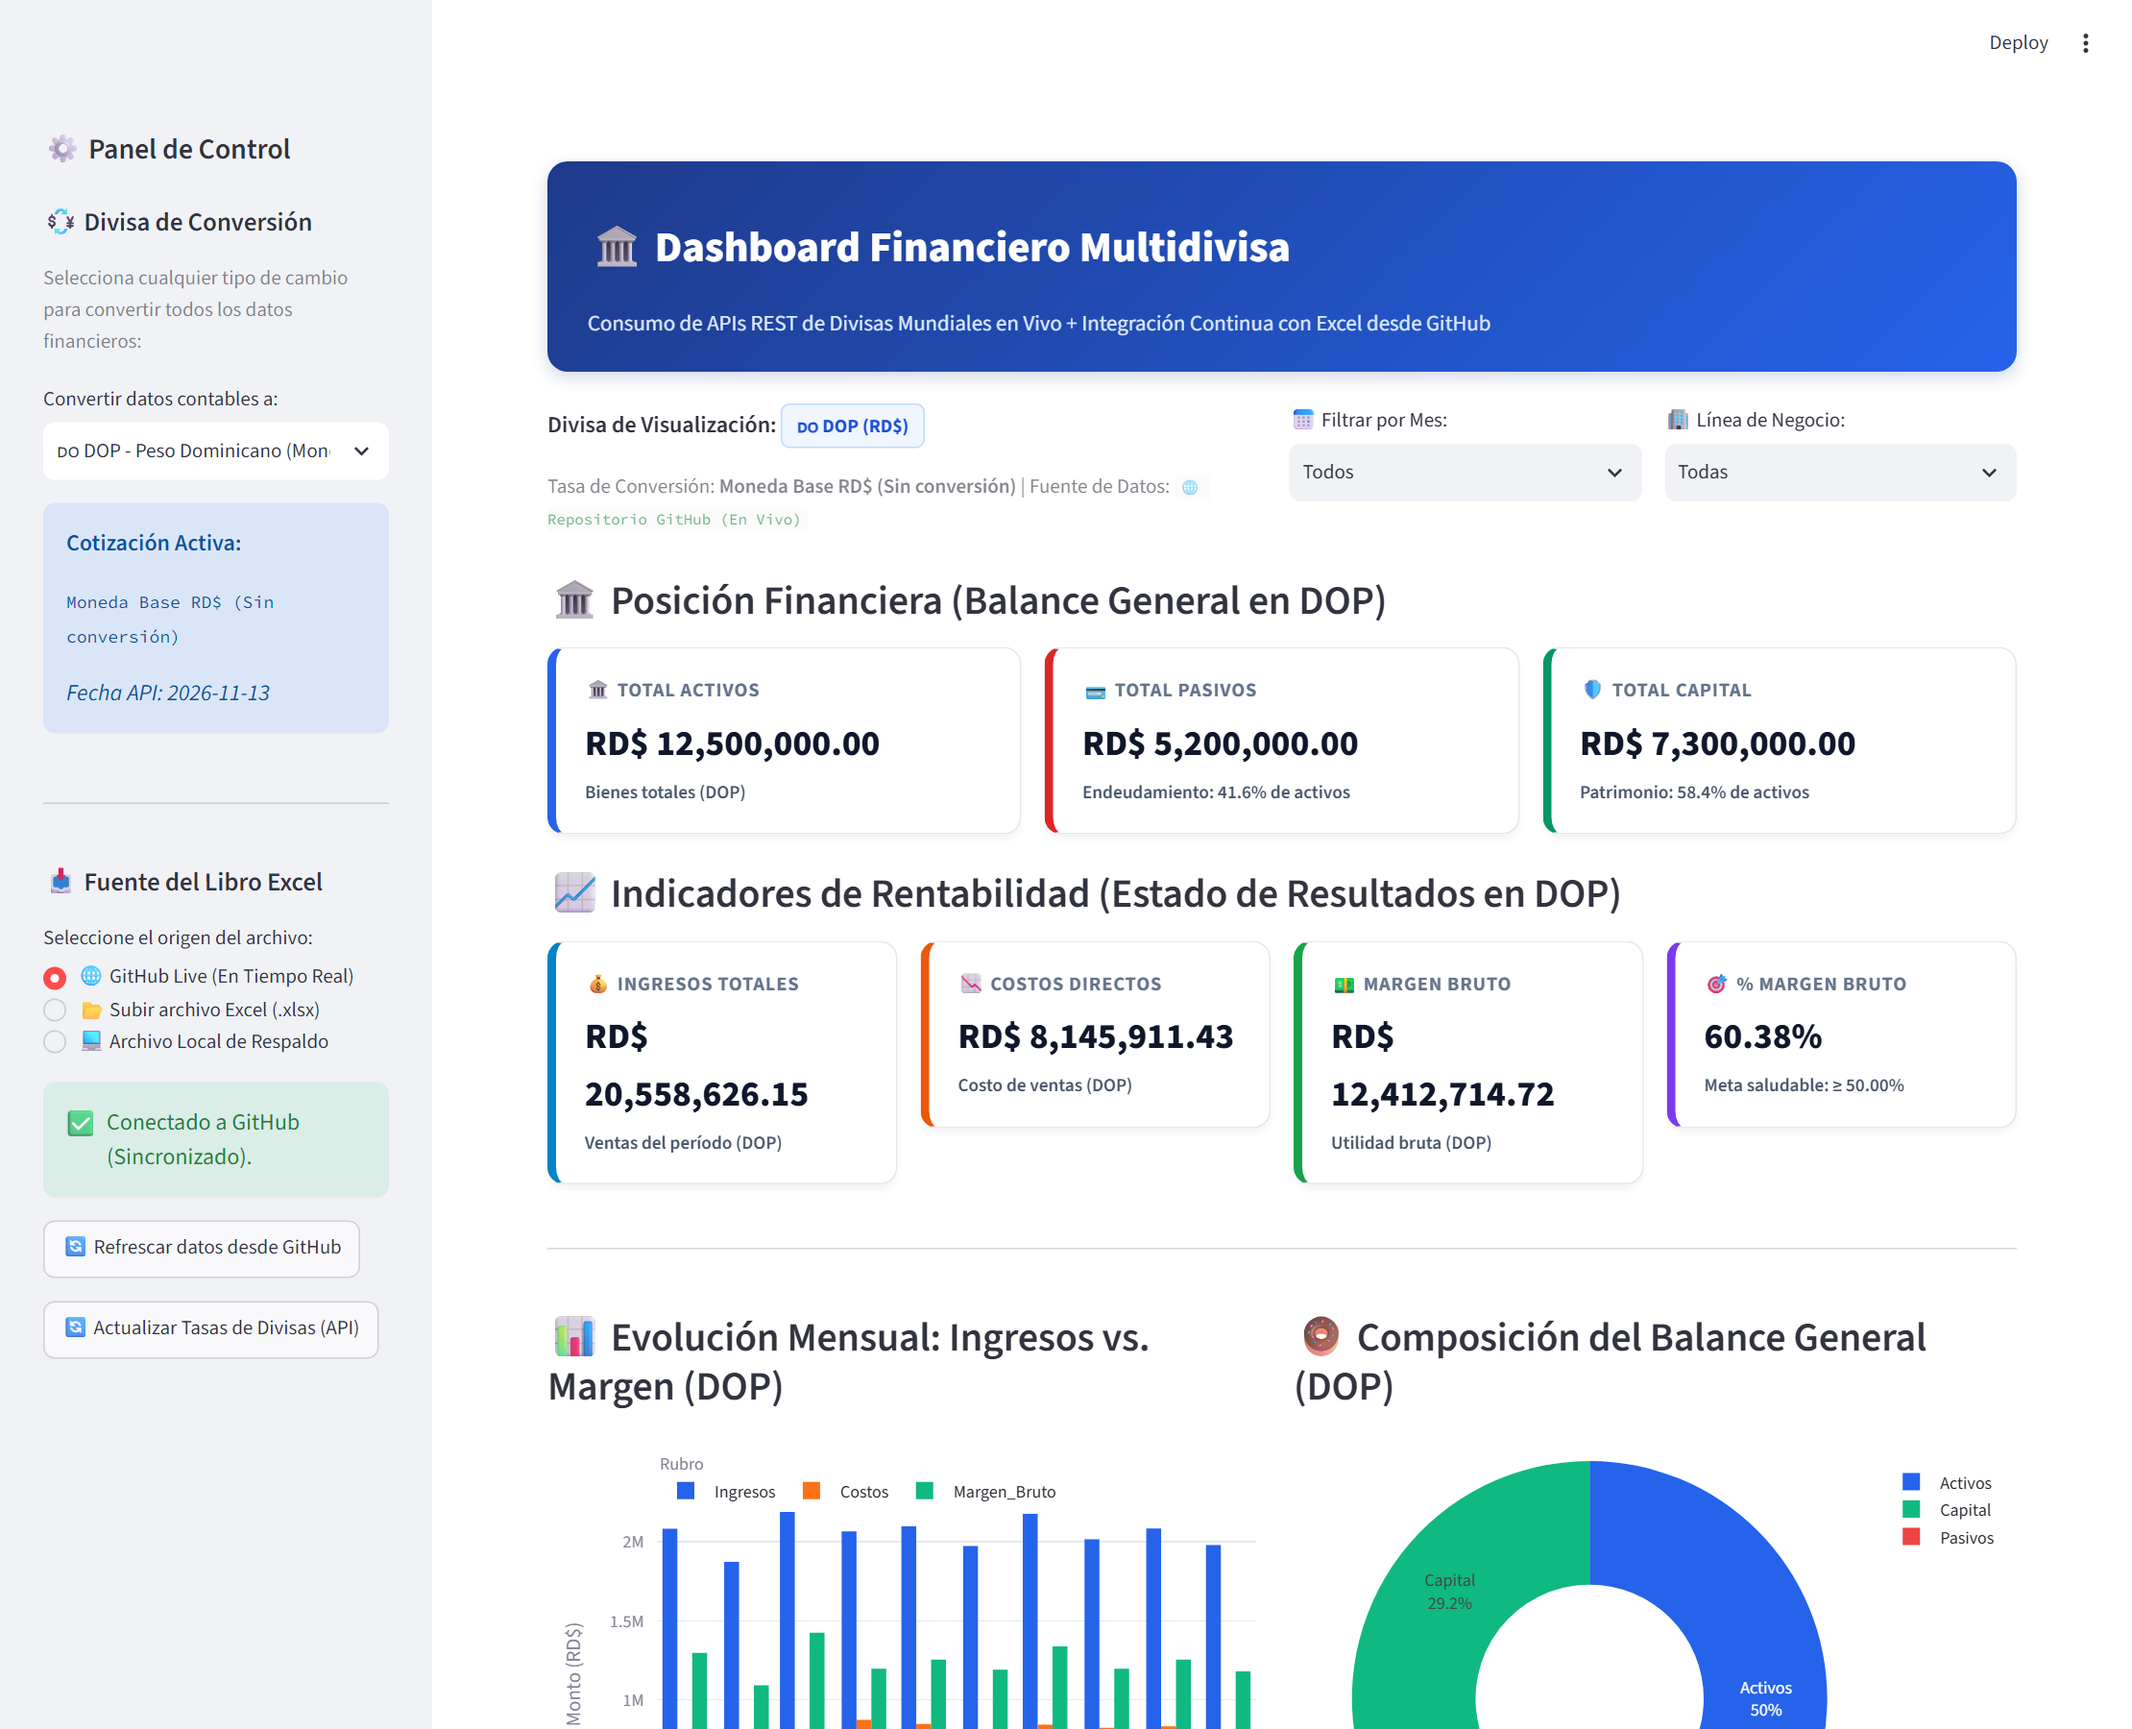
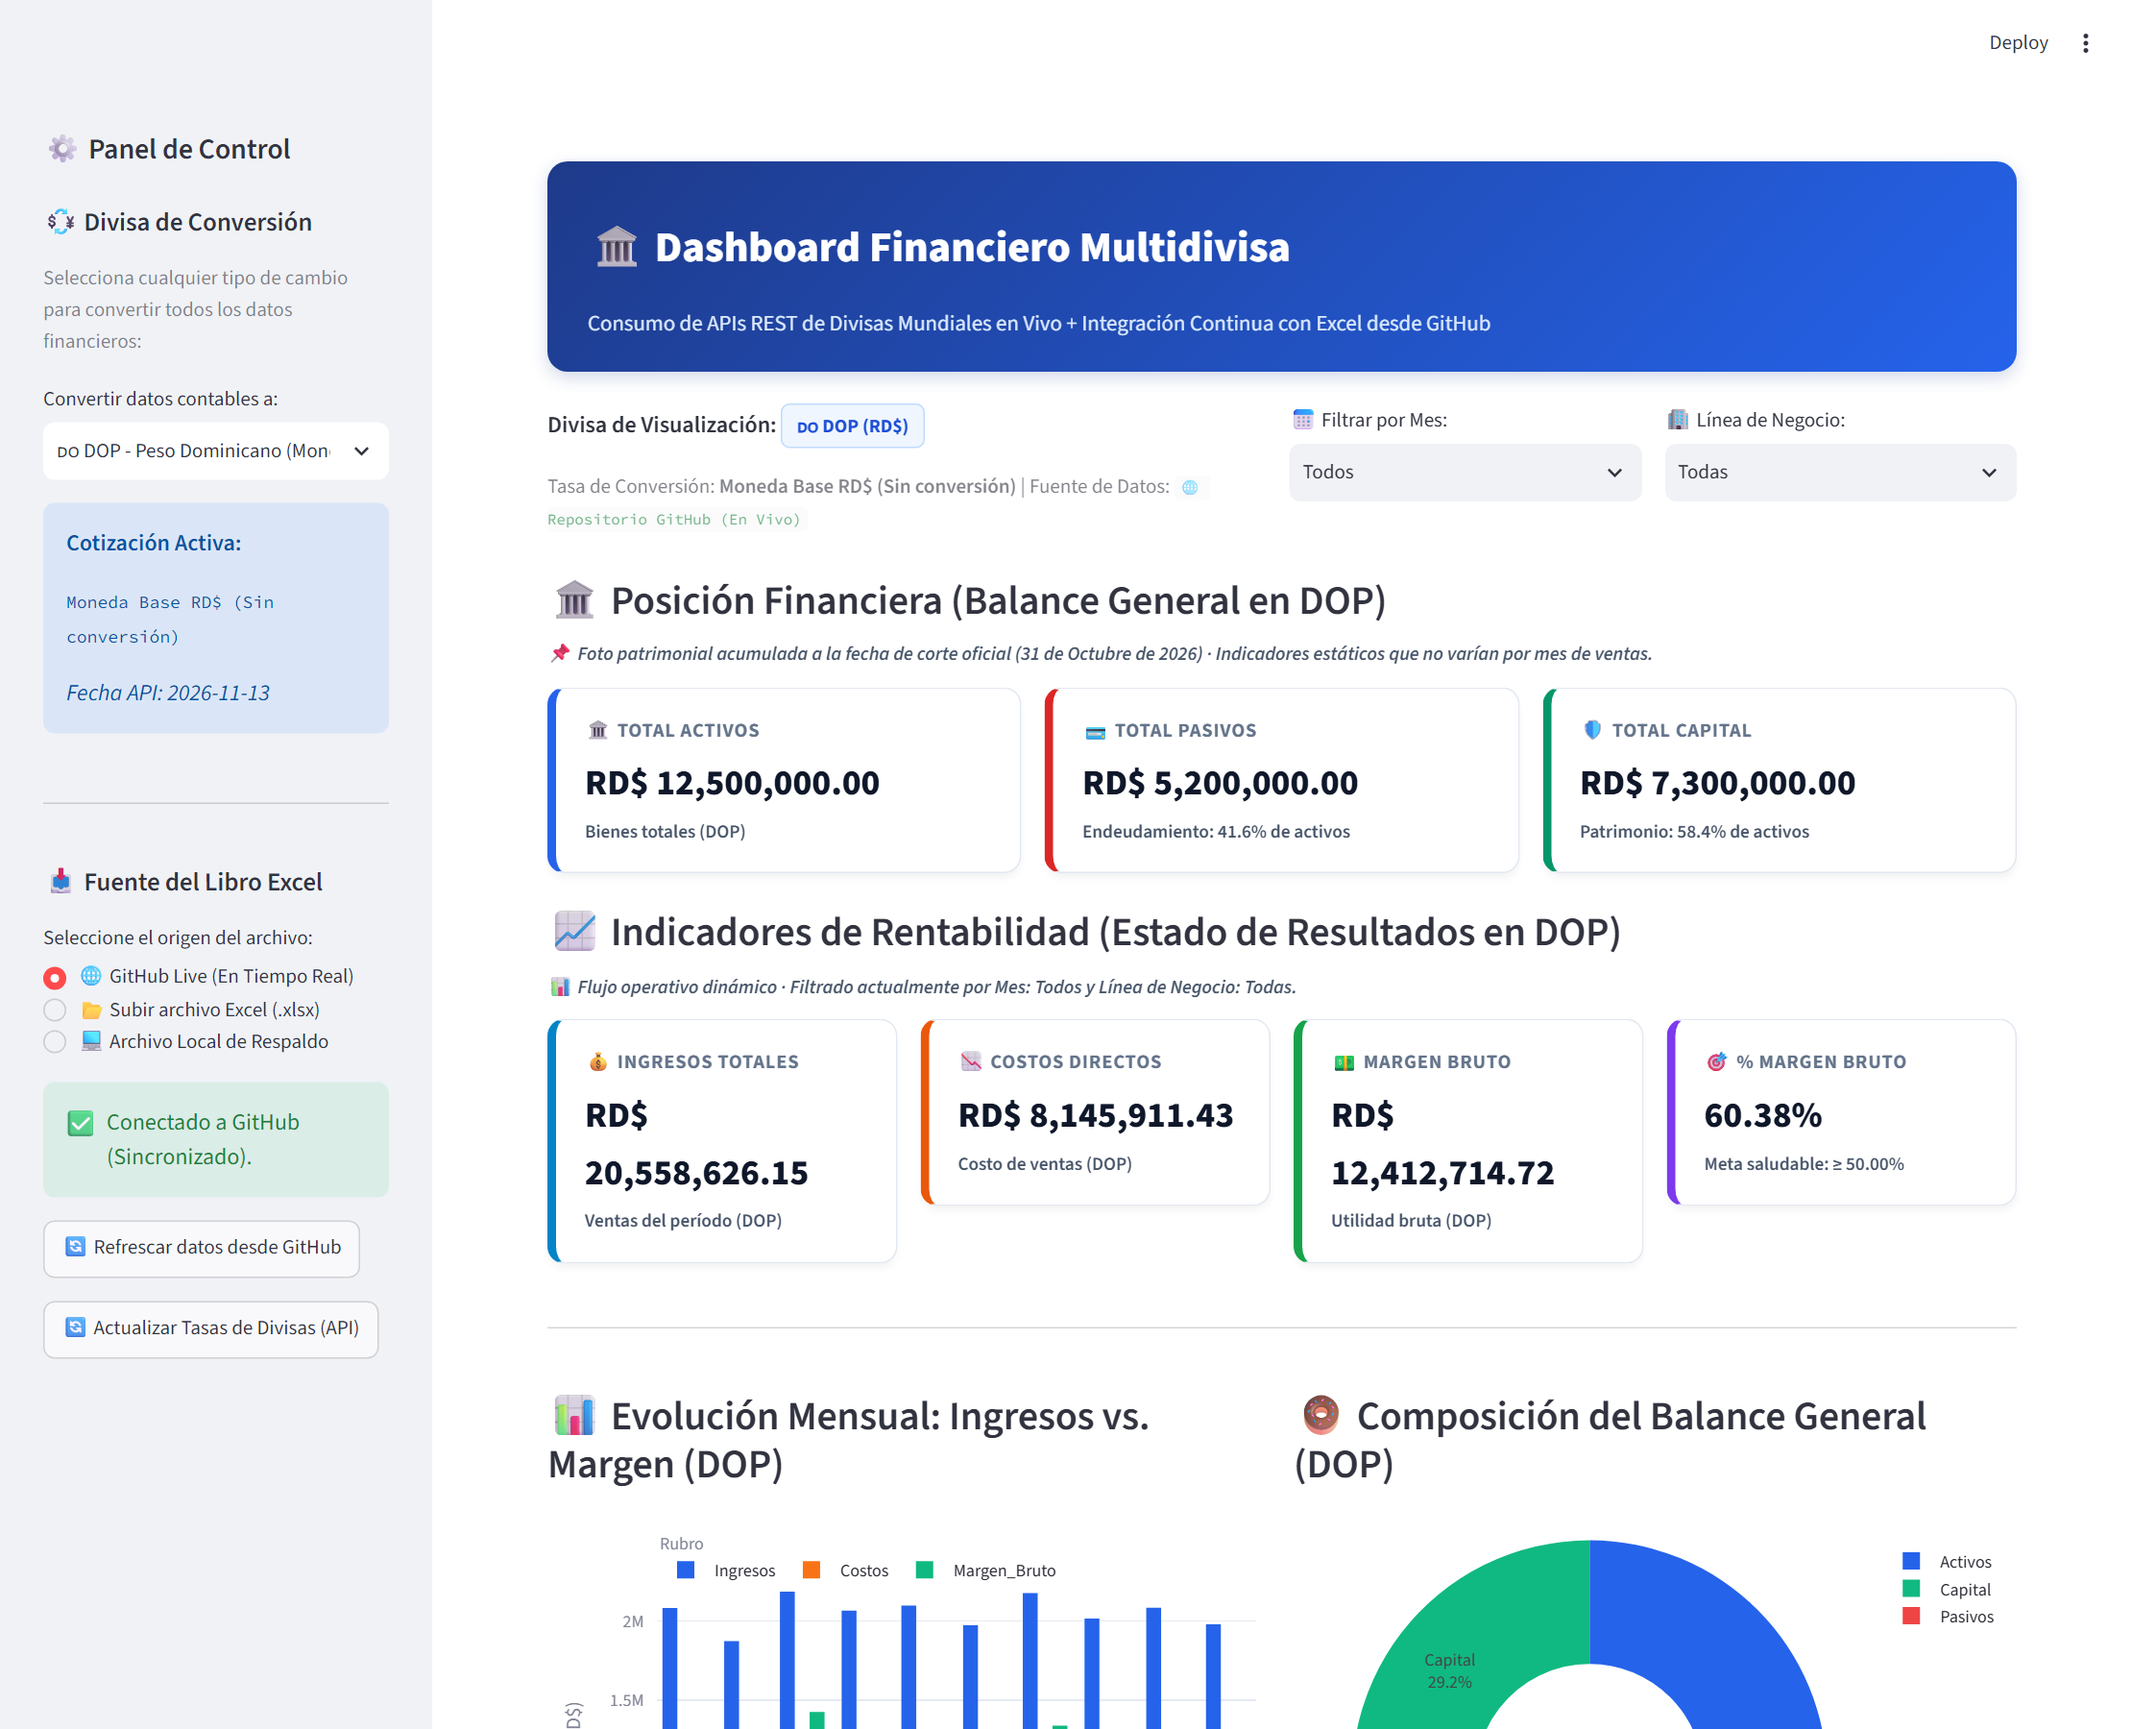
style: agregar notas explicativas bajo titulos de Balance General y Estado de Resultados

diff --git a/app.py b/app.py
@@ -343,13 +343,23 @@ def render_kpi(col, titulo, valor, subtitulo, icono="📌", color_borde="#1e3a8a
     </div>
     """, unsafe_allow_html=True)
 
-st.markdown(f"### 🏛 Posición Financiera (Balance General en {codigo_sel})")
+st.markdown(f"""
+### 🏛 Posición Financiera (Balance General en {codigo_sel})
+<small style='color: #475569; font-weight: 600; display: block; margin-top: -6px; margin-bottom: 12px;'>
+    📌 <em>Foto patrimonial acumulada a la fecha de corte oficial (31 de Octubre de 2026) · Indicadores estáticos que no varían por mes de ventas.</em>
+</small>
+""", unsafe_allow_html=True)
 k1, k2, k3 = st.columns(3)
 render_kpi(k1, "Total Activos", f"{simbolo} {tot_activos:,.2f}", f"Bienes totales ({codigo_sel})", "🏛", "#2563eb")
 render_kpi(k2, "Total Pasivos", f"{simbolo} {tot_pasivos:,.2f}", f"Endeudamiento: {(tot_pasivos/tot_activos*100):.1f}% de activos", "💳", "#dc2626")
 render_kpi(k3, "Total Capital", f"{simbolo} {tot_capital:,.2f}", f"Patrimonio: {(tot_capital/tot_activos*100):.1f}% de activos", "🛡", "#059669")
 
-st.markdown(f"### 📈 Indicadores de Rentabilidad (Estado de Resultados en {codigo_sel})")
+st.markdown(f"""
+### 📈 Indicadores de Rentabilidad (Estado de Resultados en {codigo_sel})
+<small style='color: #475569; font-weight: 600; display: block; margin-top: -6px; margin-bottom: 12px;'>
+    📊 <em>Flujo operativo dinámico · Filtrado actualmente por Mes: <strong>{mes_sel}</strong> y Línea de Negocio: <strong>{linea_sel}</strong>.</em>
+</small>
+""", unsafe_allow_html=True)
 r1, r2, r3, r4 = st.columns(4)
 render_kpi(r1, "Ingresos Totales", f"{simbolo} {tot_ingresos:,.2f}", f"Ventas del período ({codigo_sel})", "💰", "#0284c7")
 render_kpi(r2, "Costos Directos", f"{simbolo} {tot_costos:,.2f}", f"Costo de ventas ({codigo_sel})", "📉", "#ea580c")

diff --git a/estados_financieros_rd_Stramlit.py b/estados_financieros_rd_Stramlit.py
@@ -343,13 +343,23 @@ def render_kpi(col, titulo, valor, subtitulo, icono="📌", color_borde="#1e3a8a
     </div>
     """, unsafe_allow_html=True)
 
-st.markdown(f"### 🏛 Posición Financiera (Balance General en {codigo_sel})")
+st.markdown(f"""
+### 🏛 Posición Financiera (Balance General en {codigo_sel})
+<small style='color: #475569; font-weight: 600; display: block; margin-top: -6px; margin-bottom: 12px;'>
+    📌 <em>Foto patrimonial acumulada a la fecha de corte oficial (31 de Octubre de 2026) · Indicadores estáticos que no varían por mes de ventas.</em>
+</small>
+""", unsafe_allow_html=True)
 k1, k2, k3 = st.columns(3)
 render_kpi(k1, "Total Activos", f"{simbolo} {tot_activos:,.2f}", f"Bienes totales ({codigo_sel})", "🏛", "#2563eb")
 render_kpi(k2, "Total Pasivos", f"{simbolo} {tot_pasivos:,.2f}", f"Endeudamiento: {(tot_pasivos/tot_activos*100):.1f}% de activos", "💳", "#dc2626")
 render_kpi(k3, "Total Capital", f"{simbolo} {tot_capital:,.2f}", f"Patrimonio: {(tot_capital/tot_activos*100):.1f}% de activos", "🛡", "#059669")
 
-st.markdown(f"### 📈 Indicadores de Rentabilidad (Estado de Resultados en {codigo_sel})")
+st.markdown(f"""
+### 📈 Indicadores de Rentabilidad (Estado de Resultados en {codigo_sel})
+<small style='color: #475569; font-weight: 600; display: block; margin-top: -6px; margin-bottom: 12px;'>
+    📊 <em>Flujo operativo dinámico · Filtrado actualmente por Mes: <strong>{mes_sel}</strong> y Línea de Negocio: <strong>{linea_sel}</strong>.</em>
+</small>
+""", unsafe_allow_html=True)
 r1, r2, r3, r4 = st.columns(4)
 render_kpi(r1, "Ingresos Totales", f"{simbolo} {tot_ingresos:,.2f}", f"Ventas del período ({codigo_sel})", "💰", "#0284c7")
 render_kpi(r2, "Costos Directos", f"{simbolo} {tot_costos:,.2f}", f"Costo de ventas ({codigo_sel})", "📉", "#ea580c")

diff --git a/estados_financieros_rd_Streamlit_GitHub.py b/estados_financieros_rd_Streamlit_GitHub.py
@@ -343,13 +343,23 @@ def render_kpi(col, titulo, valor, subtitulo, icono="📌", color_borde="#1e3a8a
     </div>
     """, unsafe_allow_html=True)
 
-st.markdown(f"### 🏛 Posición Financiera (Balance General en {codigo_sel})")
+st.markdown(f"""
+### 🏛 Posición Financiera (Balance General en {codigo_sel})
+<small style='color: #475569; font-weight: 600; display: block; margin-top: -6px; margin-bottom: 12px;'>
+    📌 <em>Foto patrimonial acumulada a la fecha de corte oficial (31 de Octubre de 2026) · Indicadores estáticos que no varían por mes de ventas.</em>
+</small>
+""", unsafe_allow_html=True)
 k1, k2, k3 = st.columns(3)
 render_kpi(k1, "Total Activos", f"{simbolo} {tot_activos:,.2f}", f"Bienes totales ({codigo_sel})", "🏛", "#2563eb")
 render_kpi(k2, "Total Pasivos", f"{simbolo} {tot_pasivos:,.2f}", f"Endeudamiento: {(tot_pasivos/tot_activos*100):.1f}% de activos", "💳", "#dc2626")
 render_kpi(k3, "Total Capital", f"{simbolo} {tot_capital:,.2f}", f"Patrimonio: {(tot_capital/tot_activos*100):.1f}% de activos", "🛡", "#059669")
 
-st.markdown(f"### 📈 Indicadores de Rentabilidad (Estado de Resultados en {codigo_sel})")
+st.markdown(f"""
+### 📈 Indicadores de Rentabilidad (Estado de Resultados en {codigo_sel})
+<small style='color: #475569; font-weight: 600; display: block; margin-top: -6px; margin-bottom: 12px;'>
+    📊 <em>Flujo operativo dinámico · Filtrado actualmente por Mes: <strong>{mes_sel}</strong> y Línea de Negocio: <strong>{linea_sel}</strong>.</em>
+</small>
+""", unsafe_allow_html=True)
 r1, r2, r3, r4 = st.columns(4)
 render_kpi(r1, "Ingresos Totales", f"{simbolo} {tot_ingresos:,.2f}", f"Ventas del período ({codigo_sel})", "💰", "#0284c7")
 render_kpi(r2, "Costos Directos", f"{simbolo} {tot_costos:,.2f}", f"Costo de ventas ({codigo_sel})", "📉", "#ea580c")
